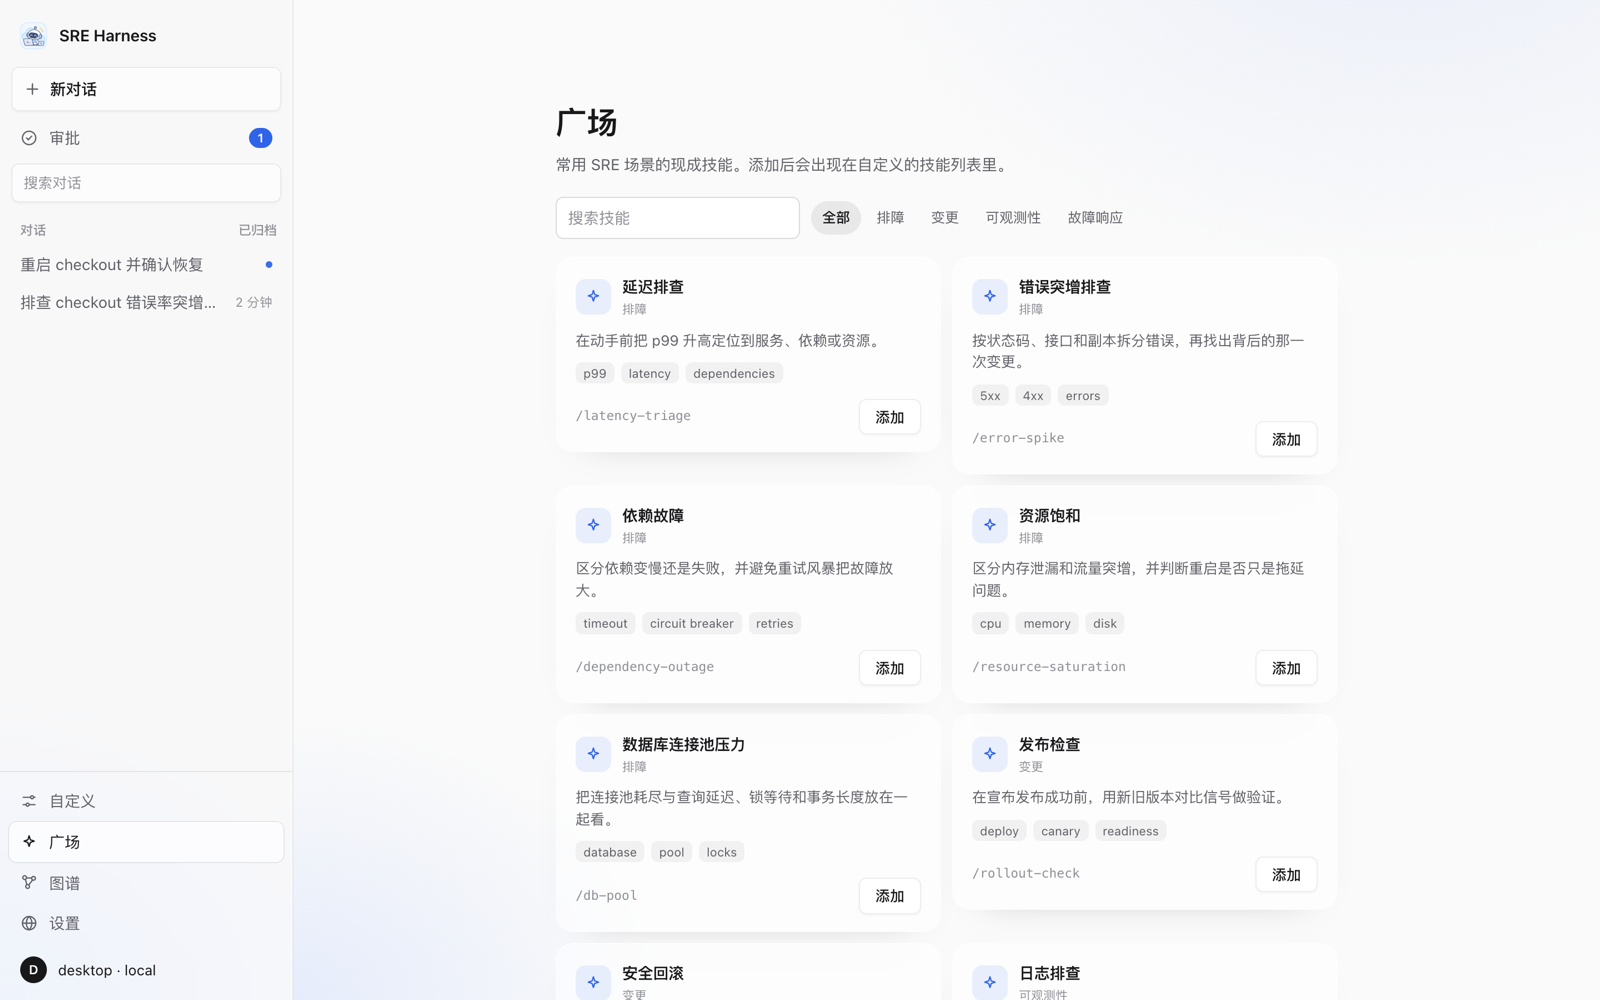
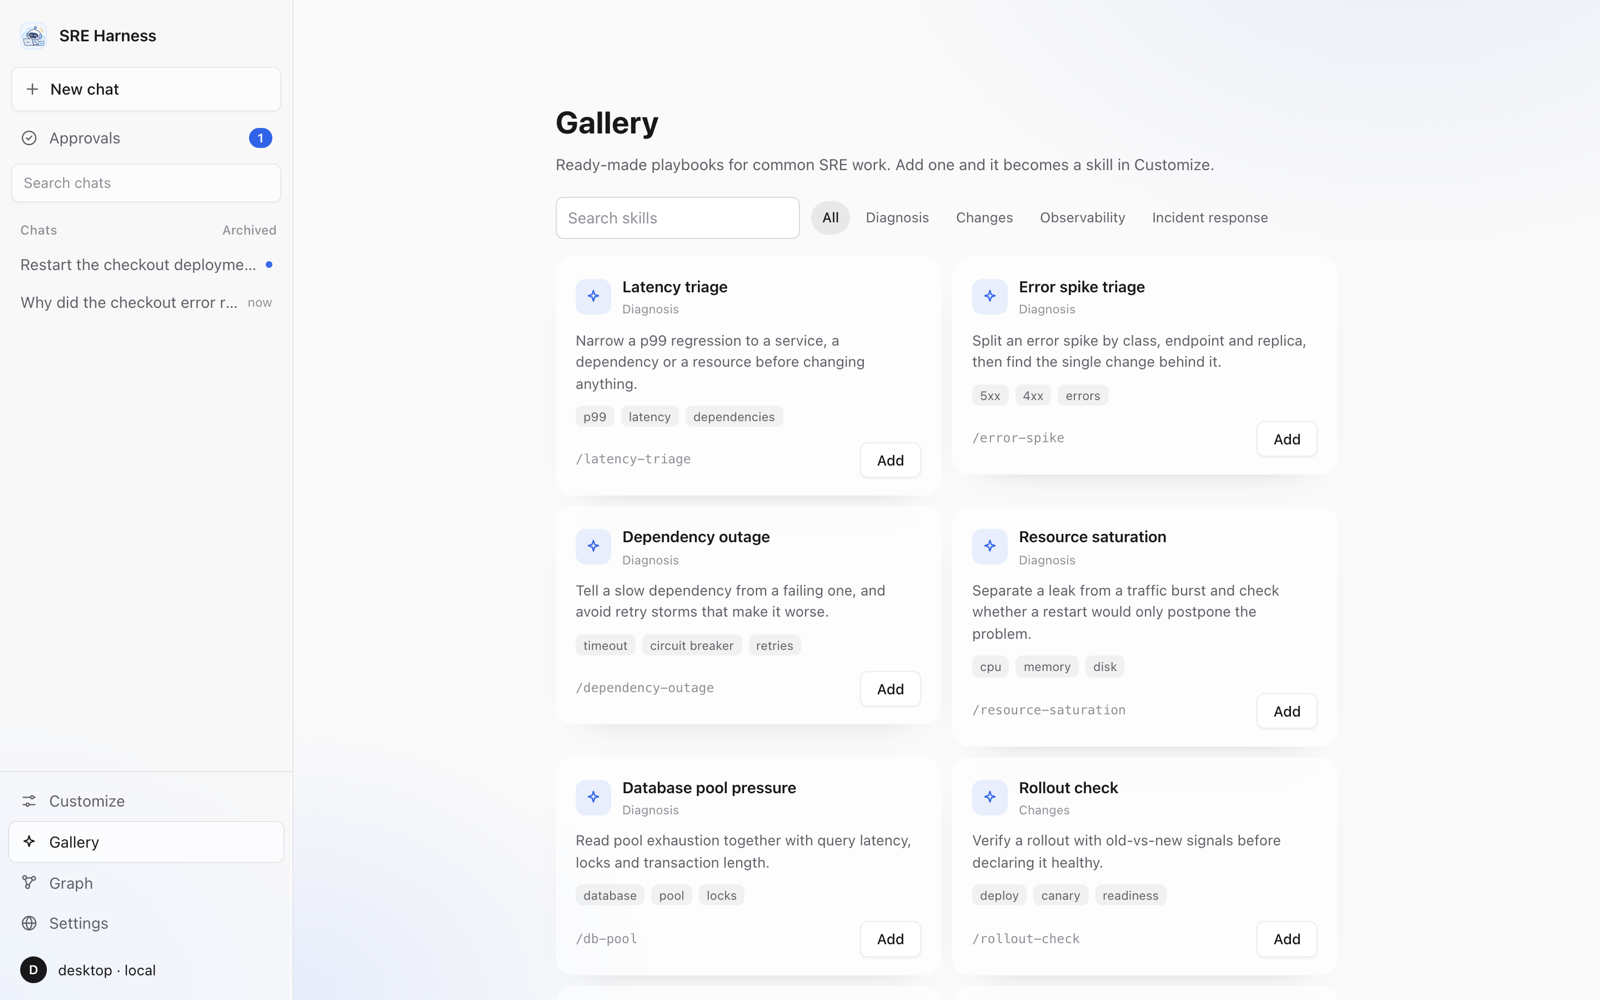
docs: English screenshots and centered README header
- English README uses English client screenshots; Chinese keeps *.zh-CN.png
- Center title, language switch, tagline and contents

diff --git a/README.zh-CN.md b/README.zh-CN.md
@@ -1,12 +1,16 @@
+<div align="center">
+
 # go-sre-harness
 
 [English](README.md) | **简体中文**
 
 面向 SRE 场景的认知型 Agent 运行时：把每一次推理和工具调用当作可恢复、可审计的分布式事务来执行。
 
-<p align="center"><img src="docs/images/desktop-diagnosis.png" alt="桌面客户端：一次排查的工作日志、工具调用和已验证的假设" width="900"></p>
+<img src="docs/images/desktop-diagnosis.zh-CN.png" alt="桌面客户端：一次排查的工作日志、工具调用和已验证的假设" width="900">
 
 [桌面客户端](#桌面客户端) · [快速开始](#快速开始) · [架构](#架构) · [Agent 运行时](#agent-运行时) · [记忆](#记忆) · [推理质量](#推理质量) · [触发器与策略](#触发器策略规则与动作闭环) · [部署](#部署) · [配置](#配置) · [API](#api)
+
+</div>
 
 ## 亮点
 
@@ -46,12 +50,12 @@ desktop/build.sh run
 
 <table>
 <tr>
-<td width="50%" valign="top"><img src="docs/images/desktop-approval.png" alt="对话内审批"><br><b>对话内审批</b> — 带副作用的生成计划等待审核：风险等级、计划哈希、过期时间和操作哈希</td>
-<td width="50%" valign="top"><img src="docs/images/desktop-inbox.png" alt="审批收件箱"><br><b>审批收件箱</b> — 汇总所有对话中待处理的审批，带角标和系统通知</td>
+<td width="50%" valign="top"><img src="docs/images/desktop-approval.zh-CN.png" alt="对话内审批"><br><b>对话内审批</b> — 带副作用的生成计划等待审核：风险等级、计划哈希、过期时间和操作哈希</td>
+<td width="50%" valign="top"><img src="docs/images/desktop-inbox.zh-CN.png" alt="审批收件箱"><br><b>审批收件箱</b> — 汇总所有对话中待处理的审批，带角标和系统通知</td>
 </tr>
 <tr>
-<td width="50%" valign="top"><img src="docs/images/desktop-gallery.png" alt="广场"><br><b>广场</b> — 常用 SRE 技能（延迟、错误突增、依赖、发布检查等），一键添加</td>
-<td width="50%" valign="top"><img src="docs/images/desktop-graph.png" alt="图谱"><br><b>图谱</b> — 检索 Run、步骤、工具、记忆和服务之间的关联</td>
+<td width="50%" valign="top"><img src="docs/images/desktop-gallery.zh-CN.png" alt="广场"><br><b>广场</b> — 常用 SRE 技能（延迟、错误突增、依赖、发布检查等），一键添加</td>
+<td width="50%" valign="top"><img src="docs/images/desktop-graph.zh-CN.png" alt="图谱"><br><b>图谱</b> — 检索 Run、步骤、工具、记忆和服务之间的关联</td>
 </tr>
 </table>
 

diff --git a/README.md b/README.md
@@ -1,12 +1,16 @@
+<div align="center">
+
 # go-sre-harness
 
 **English** | [简体中文](README.zh-CN.md)
 
 A cognitive agent runtime for SRE: every reasoning step and tool call runs as a recoverable, auditable distributed transaction.
 
-<p align="center"><img src="docs/images/desktop-diagnosis.png" alt="Desktop client: a diagnosis with its work log, tool calls and verified hypotheses" width="900"></p>
+<img src="docs/images/desktop-diagnosis.png" alt="Desktop client: a diagnosis with its work log, tool calls and verified hypotheses" width="900">
 
 [Desktop client](#desktop-client) · [Quick start](#quick-start) · [Architecture](#architecture) · [Agent runtime](#agent-runtime) · [Memory](#memory) · [Reasoning quality](#reasoning-quality) · [Triggers & policy](#triggers-policy-rules-and-the-action-loop) · [Deployment](#deployment) · [Configuration](#configuration) · [API](#api)
+
+</div>
 
 ## Highlights
 
@@ -42,7 +46,7 @@ desktop/build.sh run
 
 ### Screenshots
 
-All screenshots are the local runtime with no model configured (the rule-based strategy), UI in Chinese.
+All screenshots are the local runtime with no model configured (the rule-based strategy).
 
 <table>
 <tr>

diff --git a/desktop/README.zh-CN.md b/desktop/README.zh-CN.md
@@ -4,7 +4,7 @@
 
 SRE harness 的原生桌面客户端，基于 [Wails v2](https://wails.io)：Go + 操作系统自带的 WebView，不打包浏览器（macOS 上约 9 MB）。它是独立的 Go 模块，只通过公开的 `/v1` API 与服务端通信，认证和角色与其他客户端完全一致。
 
-<p align="center"><img src="../docs/images/desktop-diagnosis.png" alt="桌面客户端：一次排查的工作日志和假设" width="860"></p>
+<p align="center"><img src="../docs/images/desktop-diagnosis.zh-CN.png" alt="桌面客户端：一次排查的工作日志和假设" width="860"></p>
 
 ## 功能
 
